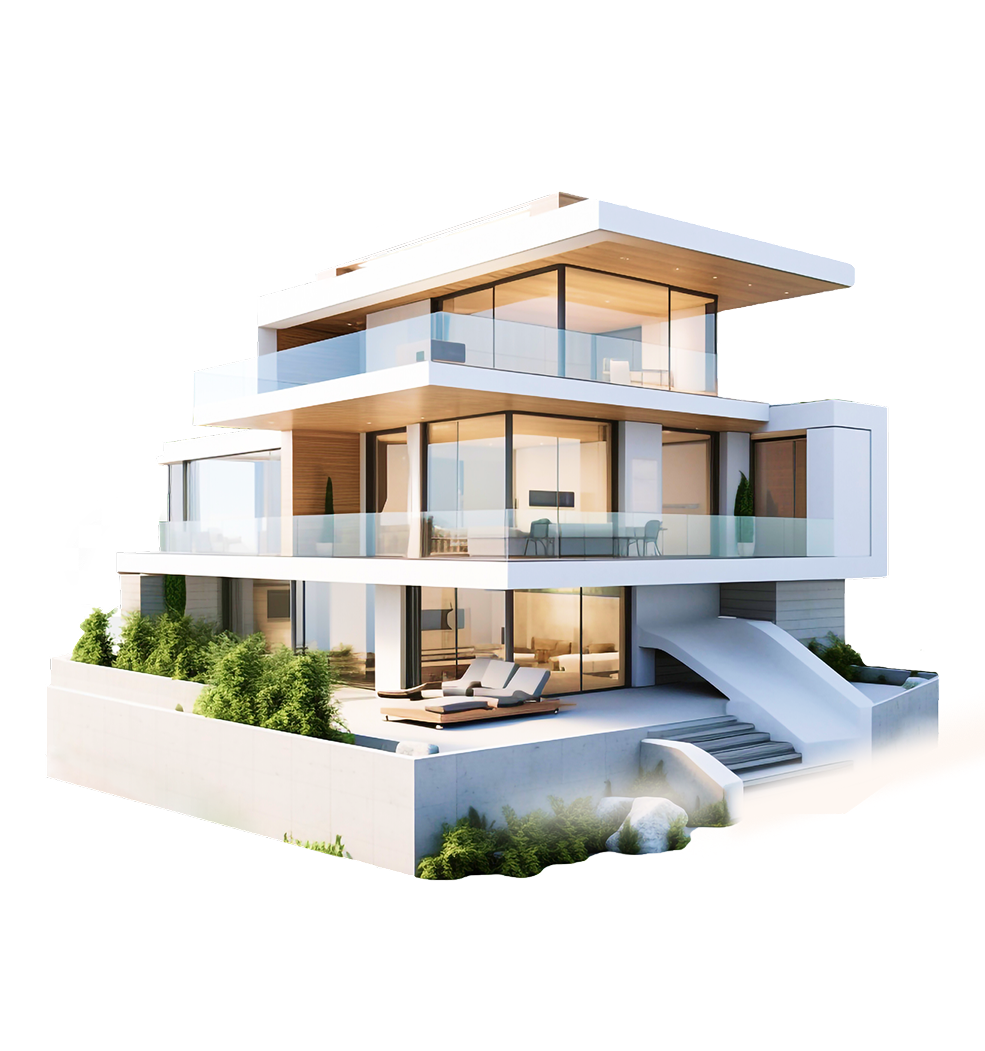
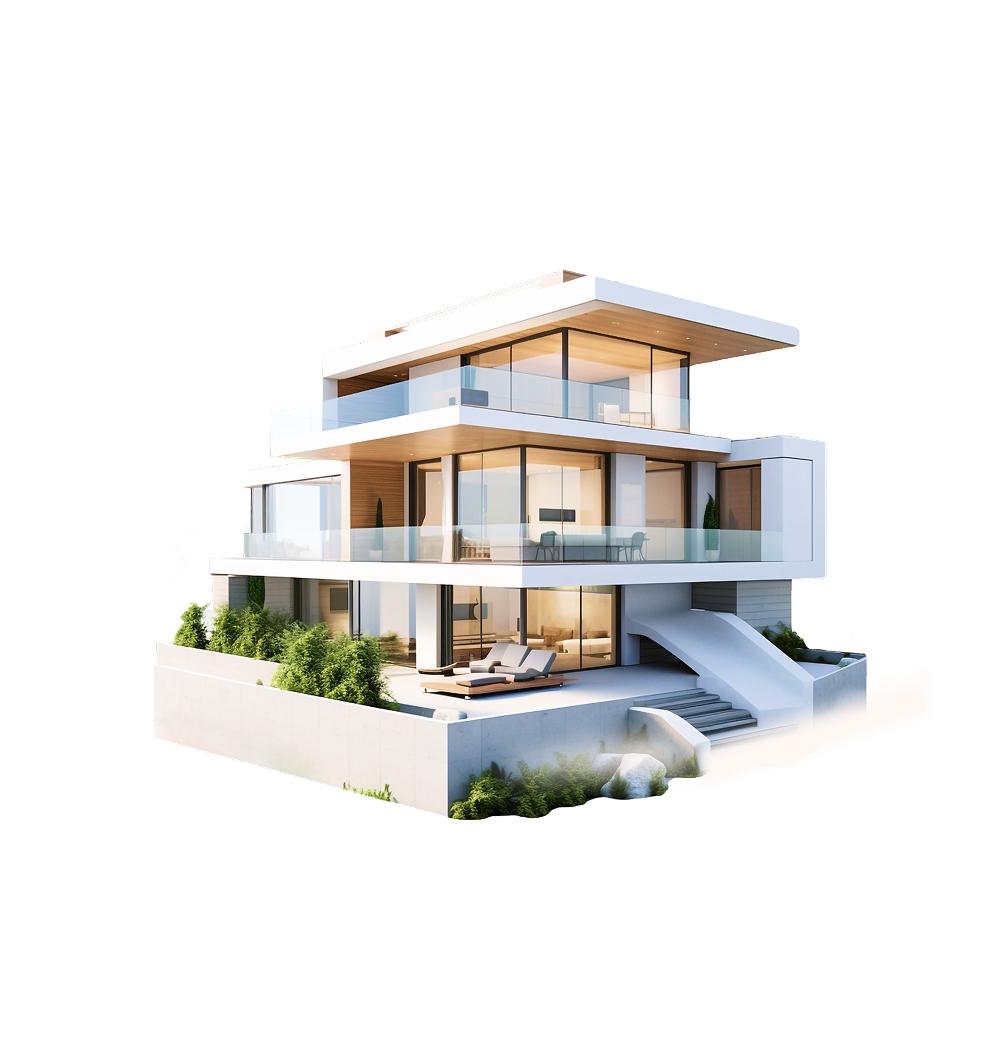
added hero section. -added a new hero image file to the images folder

diff --git a/style.css b/style.css
@@ -9,7 +9,10 @@
   --brown: #2b1b12;
   --body: #fef7f2;
   --nav: #ddc7bb;
+
+  --header-height: 80px;
 }
+
 img {
   max-width: 100%;
   height: auto;
@@ -21,14 +24,19 @@ ul li {
 a {
   text-decoration: none;
 }
+p {
+  line-height: 1.5;
+  padding-block: 1em;
+}
 
 header {
   display: flex;
   flex-direction: row;
+  align-items: center;
   justify-content: space-between;
   padding: 1em;
-  background-color: var(--body);
-  min-height: 5svh;
+  background-color: transparent;
+  height: var(--header-height);
 }
 nav {
   min-height: 100svh;
@@ -48,7 +56,7 @@ nav {
   gap: 1.5em;
   align-items: start;
 }
-.menu {
+.hamburger {
   border: none;
   background-color: transparent;
 }
@@ -65,14 +73,35 @@ nav a {
   font-weight: bold;
   font-size: clamp(1rem, 5vw, 1.2rem);
 }
-.contact-btn {
-  padding: 0.5em;
+.contact-btn,
+.hero button {
+  padding-block: 0.5em;
+  padding-inline: 0.9em;
   border-radius: 8px;
   background-color: var(--brown);
   color: white;
 }
 
-@media (min-width: 30em) {
+.hero {
+  min-height: calc(100svh - var(--header-height));
+  text-align: center;
+  display: flex;
+  flex-direction: column;
+  align-items: center;
+  justify-content: center;
+  background-color: var(--body);
+}
+.hero h1 {
+  font-size: clamp(1.5rem, 5vw, 3rem);
+}
+.hero img {
+  padding-top: 2em;
+}
+.hero-text-wrapper {
+  padding-inline: 2em;
+}
+
+@media (min-width: 32em) {
   header .menu {
     display: none;
   }
@@ -99,5 +128,16 @@ nav a {
     align-items: center;
     flex-direction: row;
     margin: 0;
+  }
+
+  .hero {
+    flex-direction: row;
+    padding-inline: clamp(1em, 2vw, 2em);
+  }
+  .hero img {
+    min-width: 50%;
+  }
+  .hero-text-wrapper {
+    text-align: start;
   }
 }

diff --git a/index.html b/index.html
@@ -44,6 +44,19 @@
 
       <button type="button" class="contact-btn">Contact Us</button>
     </header>
+    <main>
+      <section class="hero">
+        <div class="hero-text-wrapper">
+          <h1>Find Your Dream Home</h1>
+          <p>
+            Explore our curated selection of exquisite properties meticulously tailored to your unique dream home vision
+          </p>
+          <button type="button">Contact Us</button>
+        </div>
+
+        <img src="assets/images/hero image 1 (2).png" alt="house" class="hero-img" />
+      </section>
+    </main>
 
     <script src="main.js" defer></script>
   </body>
